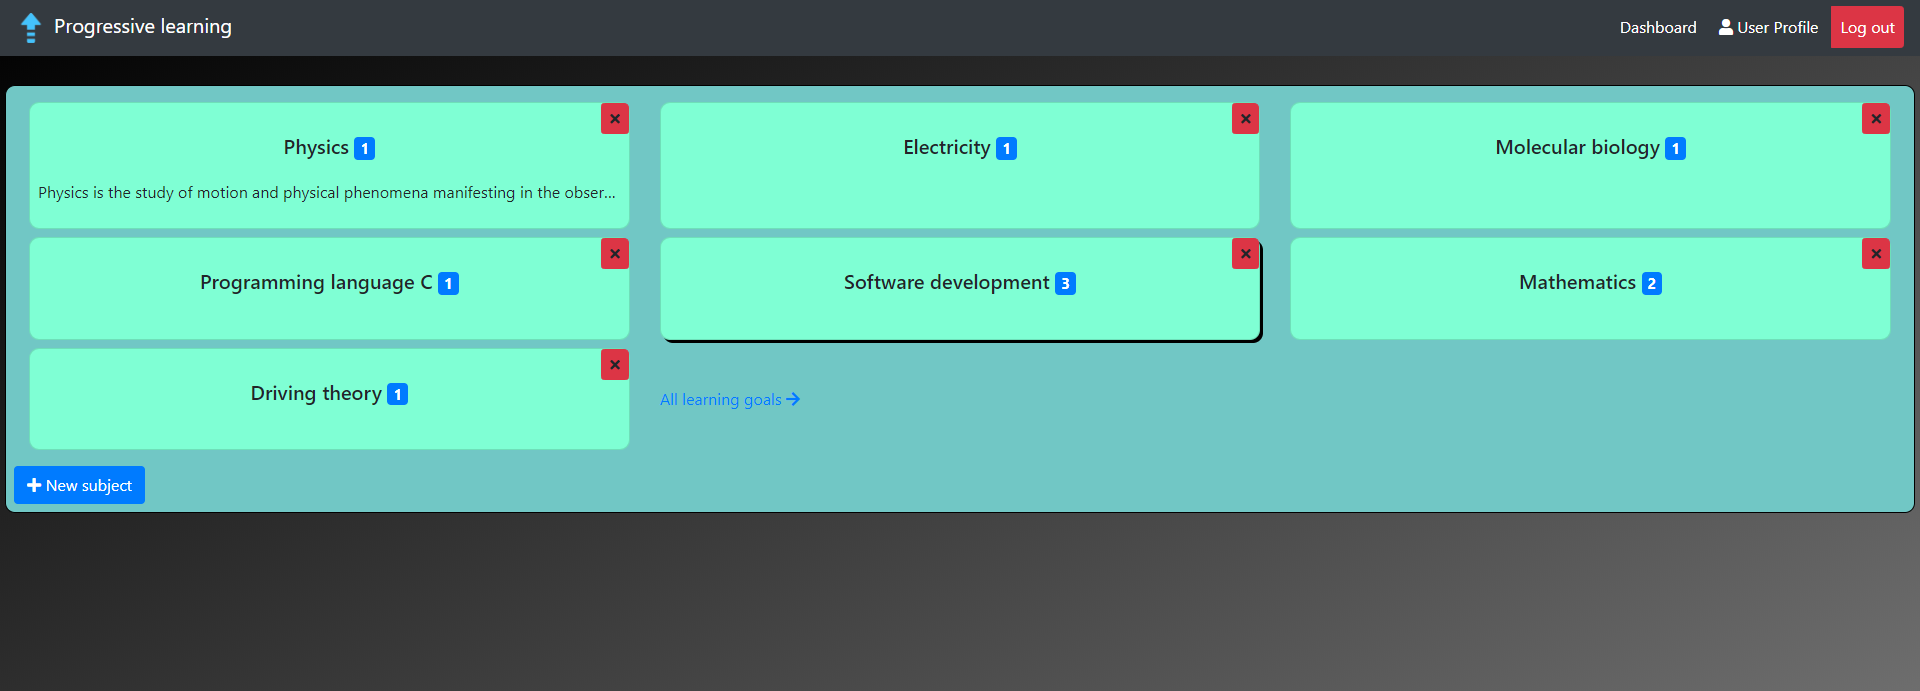
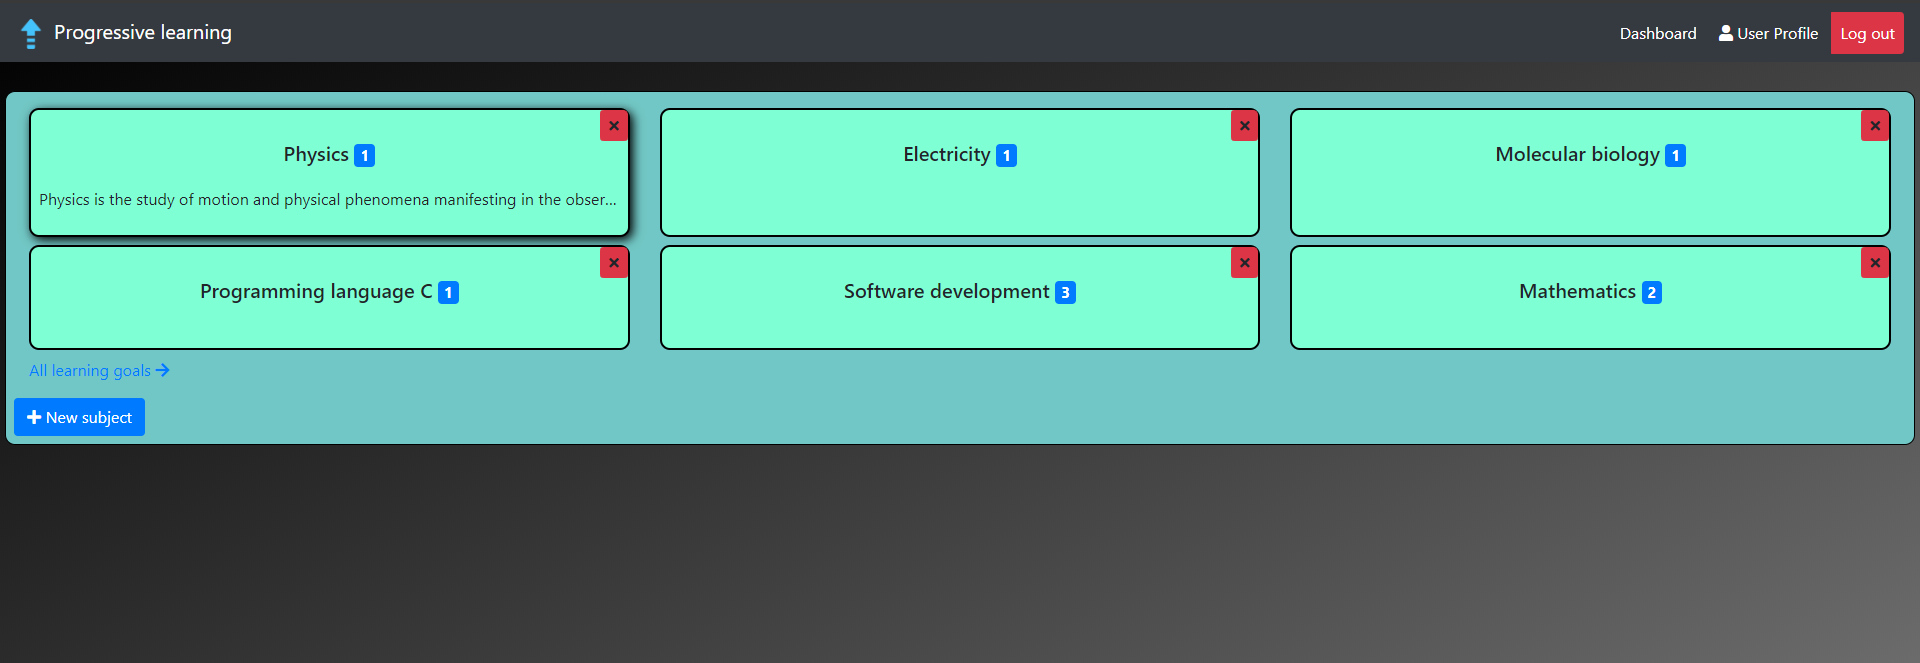
Update styling of subject-box and learning-goal detail background

diff --git a/front-end/src/app/subjects/subject-list/subject-list.component.html b/front-end/src/app/subjects/subject-list/subject-list.component.html
@@ -1,5 +1,5 @@
 <div class="col-md-4 col-sm-12 mt-2 subject" *ngFor="let subject of subjects; index as i">
-  <div class="card subject-item">
+  <div class="card subject-box">
     <a class="subject-del-btn btn btn-sm btn-danger d-inline ml-auto"
        (click)="onDelete(subject, i)">
       <span class="fa fa-times"></span></a>

diff --git a/front-end/src/app/subjects/subject-list/subject-list.component.css b/front-end/src/app/subjects/subject-list/subject-list.component.css
@@ -1,14 +1,15 @@
-.subject-item {
+.subject-box {
   border-radius: 10px;
   background-color: aquamarine;
+  border: solid 2px black;
 }
 
 .card {
   min-height: 100%;
 }
 
-.subject-item:hover {
-  box-shadow: 3px 3px black;
+.subject-box:hover {
+  box-shadow: 3px 3px 10px black;
 }
 
 .subject-del-btn {

diff --git a/front-end/src/app/learning-goals/learning-goals-list/learning-goals-list.component.css b/front-end/src/app/learning-goals/learning-goals-list/learning-goals-list.component.css
@@ -4,7 +4,7 @@
 }
 
 .learning_goal-detail, .learning_goal-create {
-  background-color: rgba(0, 180, 255, 0.5);
+  background-color: rgb(70 176 224);
   border: 1px solid black;
   border-radius: 5px;
 }

diff --git a/front-end/src/assets/stylesheets/custom.css b/front-end/src/assets/stylesheets/custom.css
@@ -1,3 +1,5 @@
+/*Custom bootstrap components and styling*/
+
 .btn-primary-green {
   color: white;
   background-color: yellowgreen;
